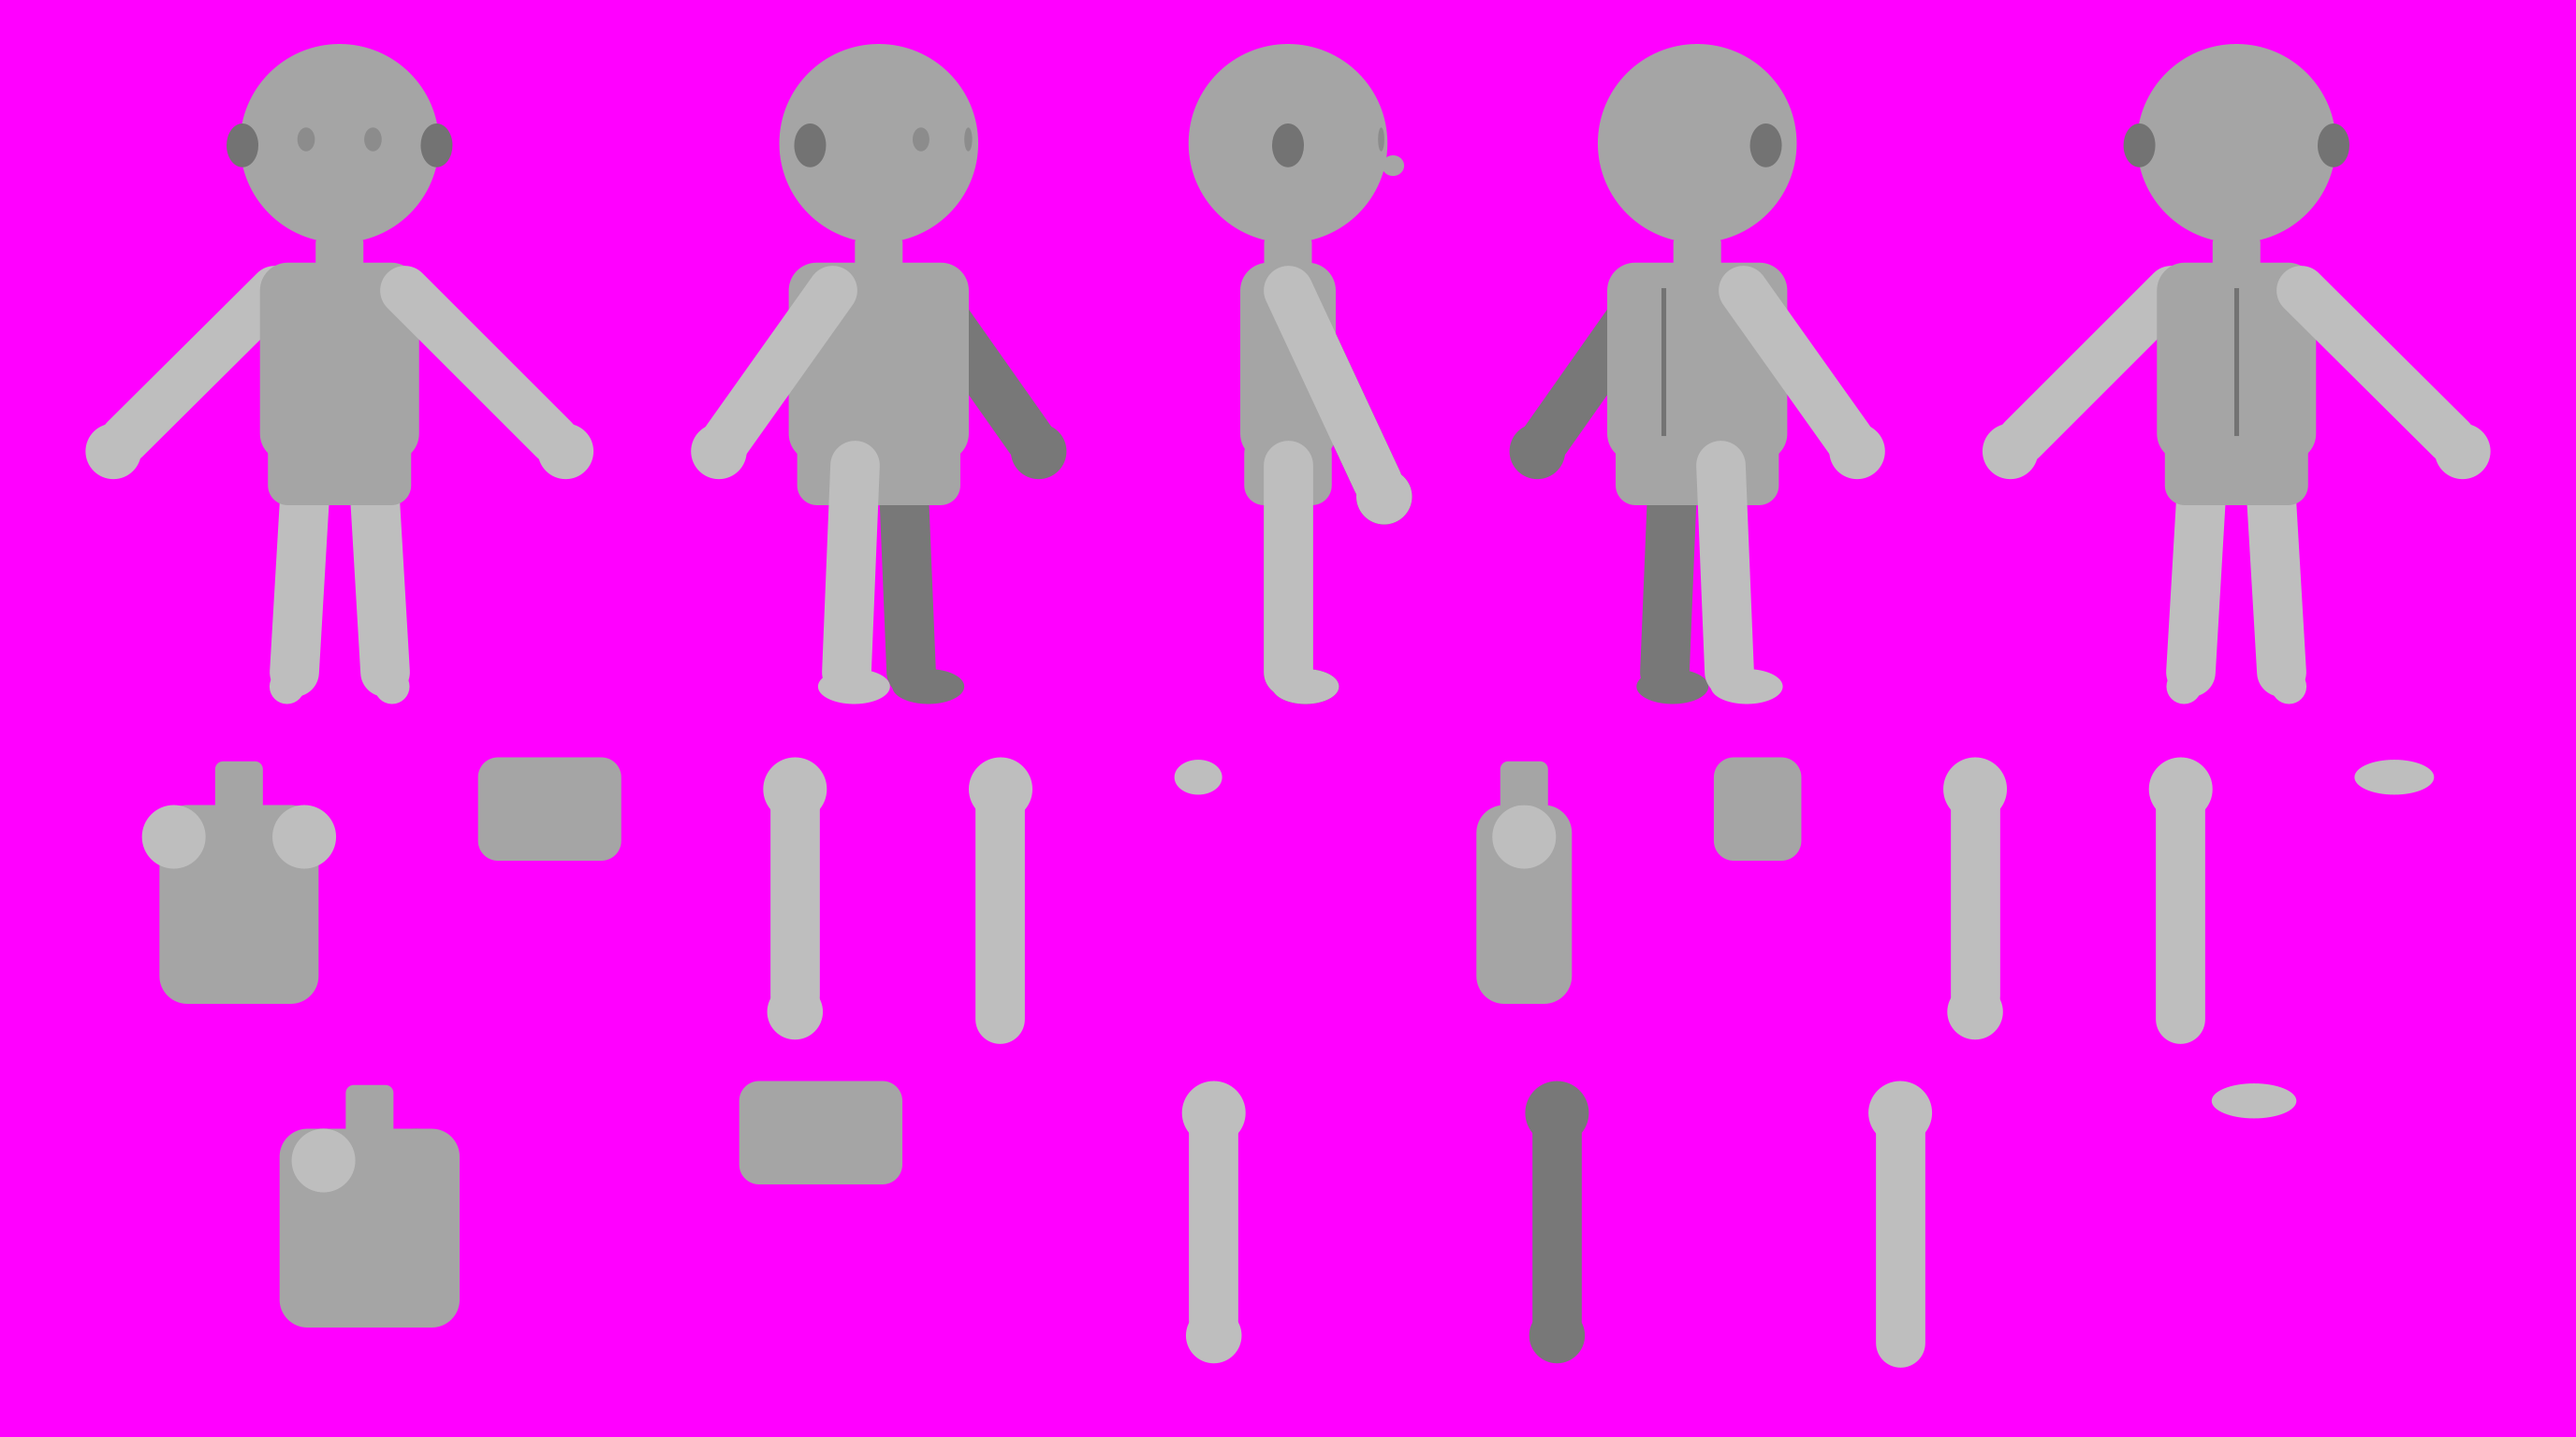
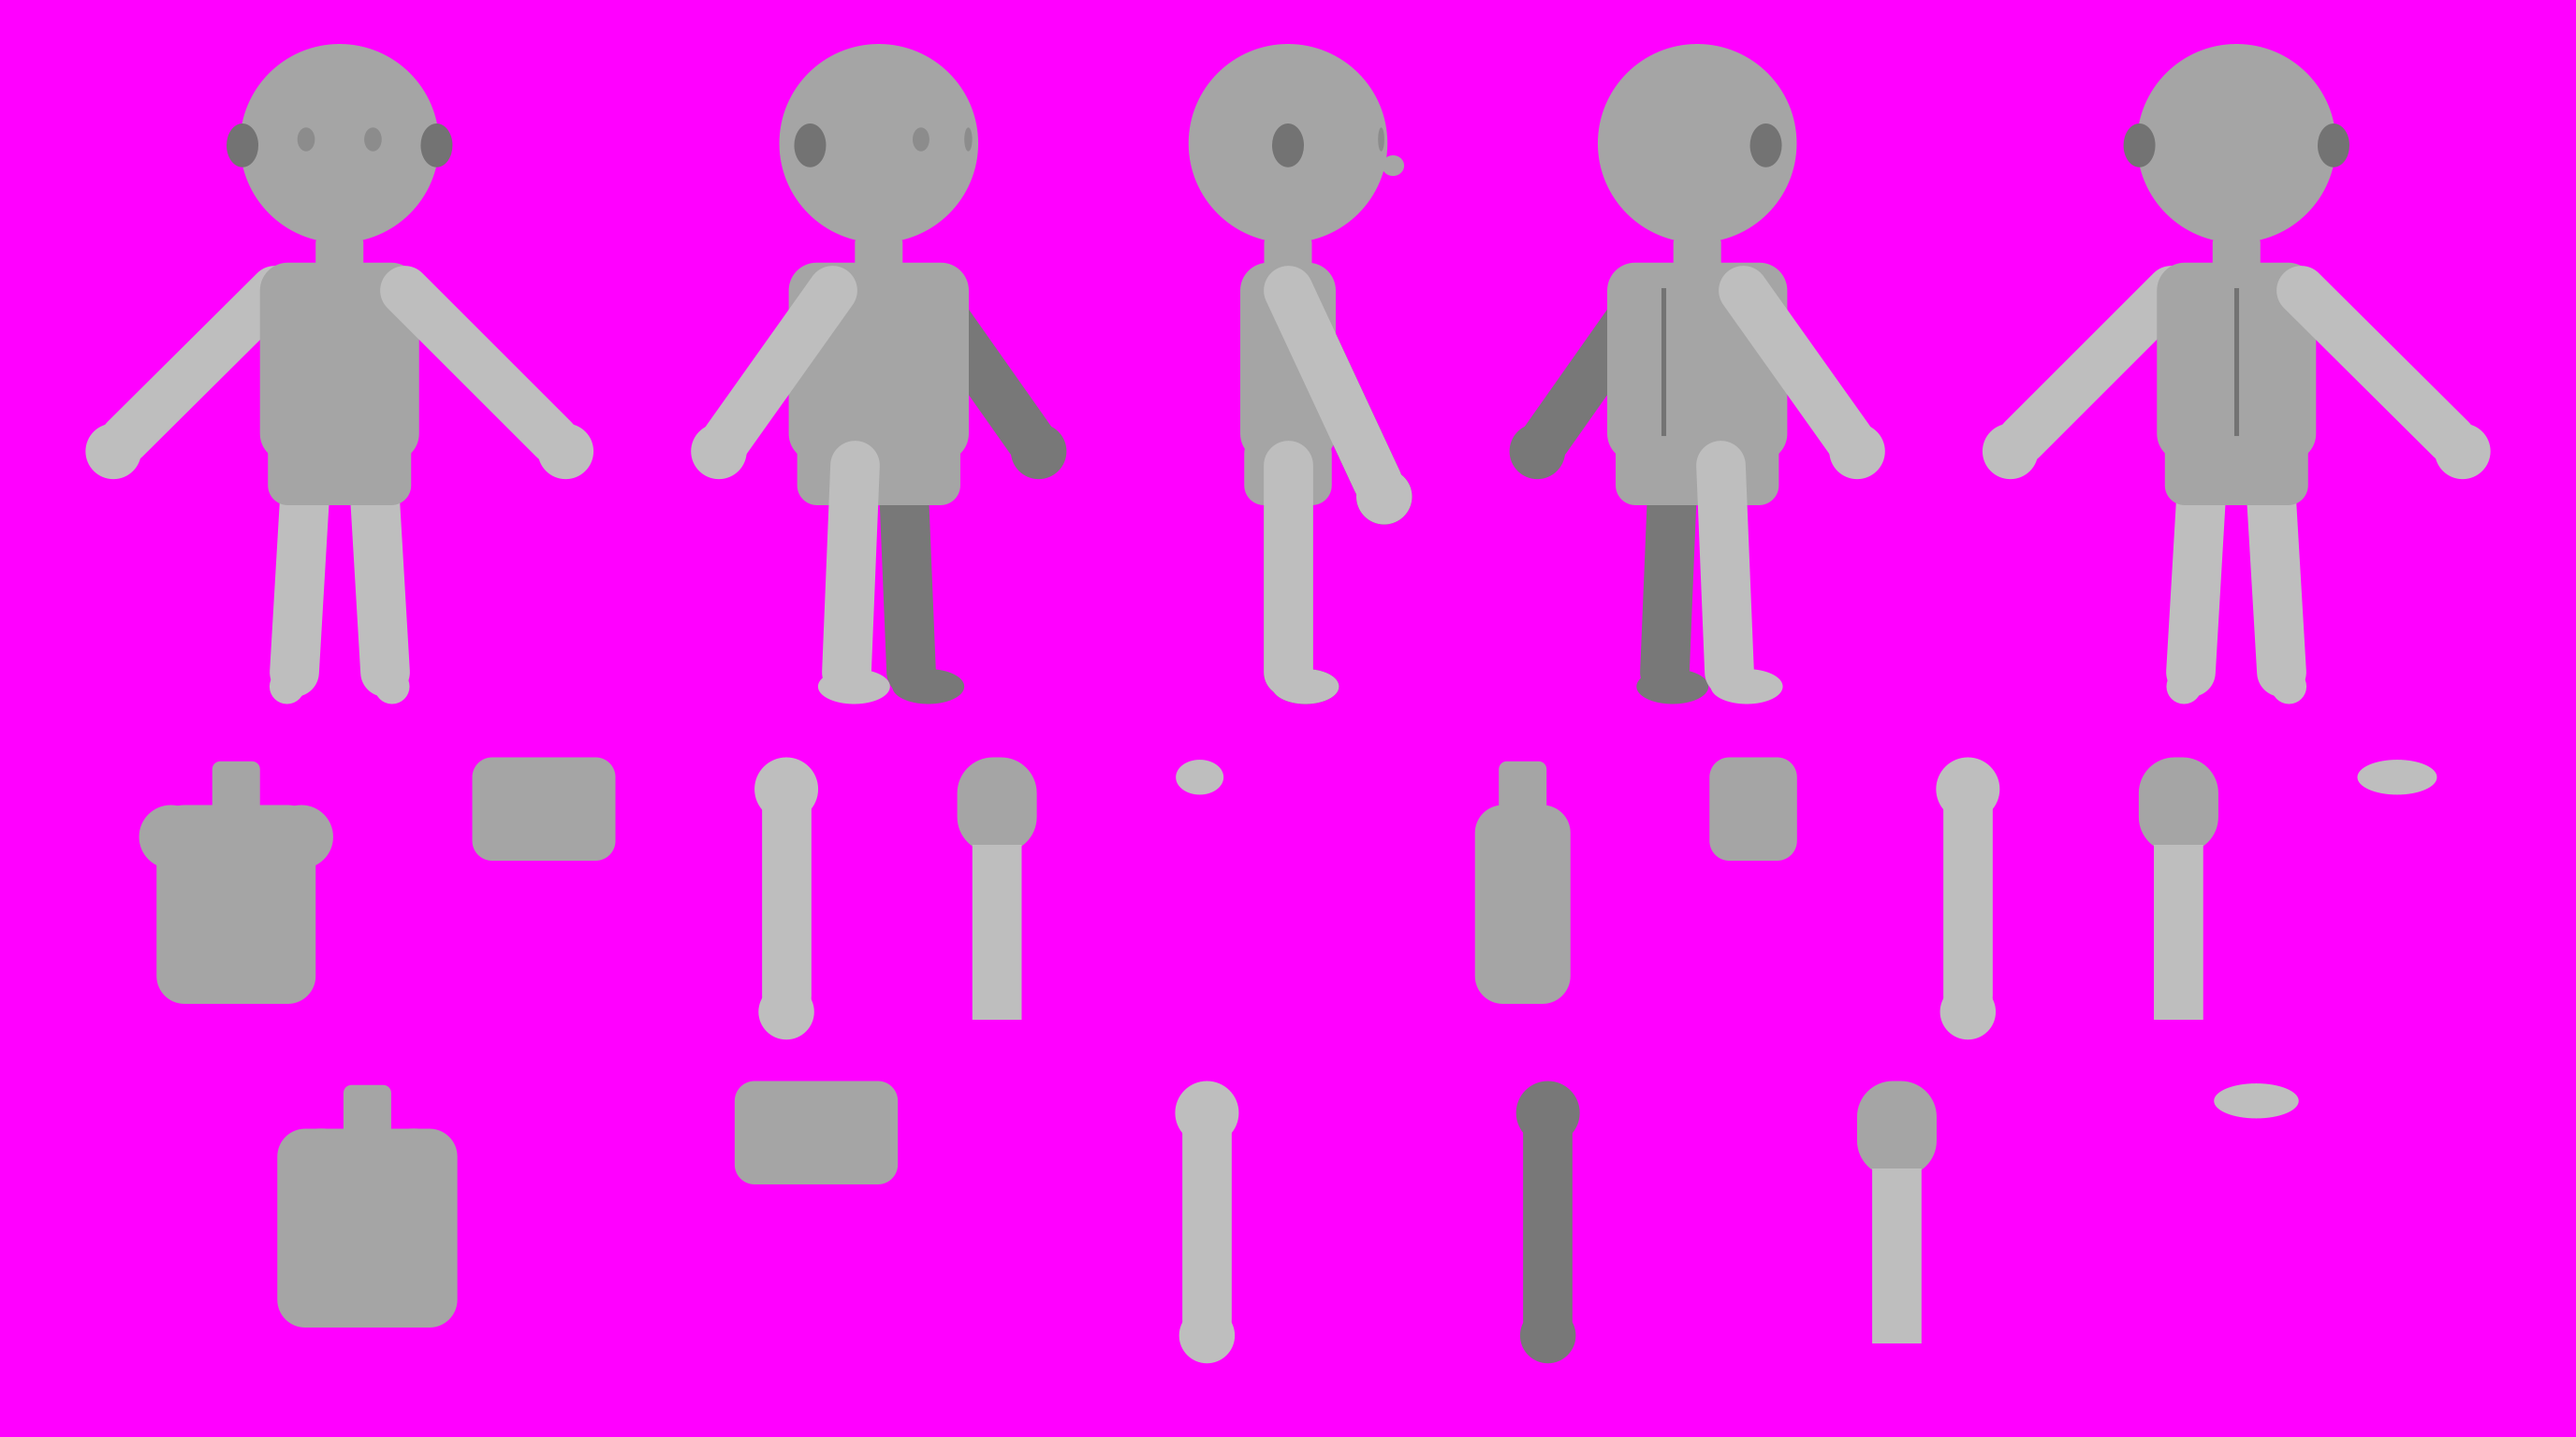
Bộ kit Kai, tờ thân: 2 lần Gemini ra hình (attempts/kit_body_v1, v2) và 3 lượt NO_IMAGE; hàng 5 góc, tay rời đầu tay áo tròn, chân rời có tất vẽ dư, thân trực diện không tay (v2) đạt; sửa tờ mẫu: thân một khối vai tròn không đĩa sáng (thành mảng da), ô chân là khối ống quần rộng khác ô tay (nhóm trự

diff --git a/tools/src/main/kotlin/com/example/storyrig/tools/MannequinSheet.kt b/tools/src/main/kotlin/com/example/storyrig/tools/MannequinSheet.kt
@@ -245,15 +245,11 @@ private fun partSet(view: String, yaw: Int): List<Slot> {
     val torso = Slot("${view}_torso", 2 * halfT, 310.0) { g, x, y, k ->
         val cx = x + halfT * k
         fun Y(u: Double) = y + (u - 325) * k
-        // Neck reaching up under the chin, torso, shoulder balls (the far one behind, the near one over it).
+        // Neck reaching up under the chin; the torso one grey shape with round shoulders (the shoulder balls drawn in
+        // the torso's own grey: a lighter disc there came back as a patch of skin).
         box(g, GREY, cx - 30 * k, Y(330.0), cx + 30 * k, Y(420.0), 20 * k)
-        val order = listOf(-1, 1).sortedBy { v.z(it * 82.0, 0.0) }
-        // Seen square on, both shoulders face the viewer alike (both over the torso); turned, the far one is behind it.
-        val square = abs(v.s) < 1e-6
-        if (!square) disc(g, DARK, cx + v.x(order[0] * 82.0, 0.0) * k, Y(425.0), 40 * k)
+        for (side in listOf(-1, 1)) disc(g, GREY, cx + v.x(side * 82.0, 0.0) * k, Y(425.0), 40 * k)
         box(g, GREY, cx - tw / 2 * k, Y(385.0), cx + tw / 2 * k, Y(635.0), 70 * k)
-        if (square) disc(g, LIGHT, cx + v.x(order[0] * 82.0, 0.0) * k, Y(425.0), 40 * k)
-        disc(g, LIGHT, cx + v.x(order[1] * 82.0, 0.0) * k, Y(425.0), 40 * k)
     }
     val pelvis = Slot("${view}_pelvis", pw, 130.0) { g, x, y, k ->
         // Reaching up 40 units under the shirt's hem (the waistband drawn in full).
@@ -265,11 +261,12 @@ private fun partSet(view: String, yaw: Int): List<Slot> {
         limb(g, c, cx, y + 40 * k, cx, y + 300 * k, 31 * k)
         disc(g, c, cx, y + 320 * k, 35 * k)
     }
-    val leg = Slot("${view}_leg", 80.0, 360.0) { g, x, y, k ->
-        val cx = x + 40 * k
-        disc(g, LIGHT, cx, y + 40 * k, 40 * k)
-        // Down past the ankle: the part inside the shoe.
-        limb(g, LIGHT, cx, y + 40 * k, cx, y + 329 * k, 31 * k)
+    val leg = Slot("${view}_leg", 100.0, 360.0) { g, x, y, k ->
+        val cx = x + 50 * k
+        // The leg of the shorts: a wide round-topped block (unlike an arm's narrow sleeve), then the leg down past the
+        // ankle (the part inside the shoe), cut flat.
+        box(g, GREY, cx - 50 * k, y, cx + 50 * k, y + 120 * k, 90 * k)
+        g.color = LIGHT; g.fill(java.awt.geom.Rectangle2D.Double(cx - 31 * k, y + 110 * k, 62 * k, 220 * k))
     }
     val fw = 44 * abs(v.c) + 84 * abs(v.s) + 16
     val shoe = Slot("${view}_shoe", fw, 50.0) { g, x, y, k ->

diff --git a/ART_PIPELINE.md b/ART_PIPELINE.md
@@ -188,7 +188,7 @@ Plan đầy đủ: bộ kit 2 tờ (mục 2), lắp rig từ bộ phận rời (
 | 0c | **Dừng sau mục vai (2026-10-18):** nách vẫn rách, chỉ bộ kit sửa được; các mục code còn lại làm sau khi Kai có bộ kit. Đã xong: quả cầu vai (selftest 15/15, lệch màu tư thế đứng tối đa 0,26 %, `motionCheck` đạt). Còn lại → thứ tự vẽ tay xa → gối theo hình nộm → cổ giày → tóc và dây buộc → váy Hana → mặt sau (quần đùi khi ngồi, đá chân) → cổ tay → nắp tô trơn (cổ, khuỷu, đùi, quai balo trên tay) → kính Bo | chưa |
 | 1 | 2 tờ mẫu (`rig_body.png`, `rig_face_hands.png`, kèm `.csv` ô) trong `MannequinSheet.kt` (`mannequin kit <dir>`). 2 prompt (`body_sheet.txt`, `face_hands_sheet.txt`) nói rõ phần phải vẽ dư, 12 miệng, bàn tay đếm số | xong 2026-10-18, **chờ người dùng duyệt**. Tờ thân: hàng A 5 góc, hàng B bộ phận rời trực diện và nghiêng, hàng C bộ phận rời 3/4 (vừa 2 tờ, không cần tờ 3). Cỡ ở 4K: người toàn thân 1411 px, miệng 146–246 px, mắt 180 px, bàn tay 368×448 px, đầu không tóc 494 px (mặt và tay vẽ gấp 2,4 lần cỡ thân, `splitsheet` thu về). Prompt của Kai: `assets/kai/prompts/5_body_sheet.txt`, `6_face_hands_sheet.txt` |
 | 2 | `splitsheet` và `sheetcheck` (10 mục ở mục 3), thử trên `turnaround_v1.jpg` | chưa |
-| 3 | Gemini cho **Kai**: 2 lượt, 4K, **người dùng duyệt riêng**. Chạy `sheetcheck`, báo bằng lời thường kèm ảnh khoanh lỗi | chờ duyệt |
+| 3 | Gemini cho **Kai**: 2 lượt, 4K, **người dùng duyệt riêng**. Chạy `sheetcheck`, báo bằng lời thường kèm ảnh khoanh lỗi | đang làm. 2026-10-18 tờ thân 2 lần ra hình (`attempts/kit_body_v1.jpg`, `v2`) cộng 3 lượt `NO_IMAGE` (model hay từ chối ngẫu nhiên với prompt dài kèm 3 ảnh; thêm câu đầu "Generate one image" và thử lại thì ra). Hàng 5 góc đẹp và đồng nhất; tay rời có đầu tay áo tròn; chân rời có đầu ống quần tròn và tất vẽ dư; v2 thân trực diện đúng dáng không tay (vai tròn, nách, hông áo đủ). Lỗi do tờ mẫu: đĩa vai sáng trên thân thành mảng da (đã bỏ, thân một khối xám vai tròn); ô chân giống ô tay nên nhóm trực diện ra 2 tay, thiếu chân và giày (ô chân giờ là khối ống quần rộng). Quần rời vẫn có 2 ống (tool cắt bỏ dưới đáy quần). Chân 3/4 vẫn dính giày. **Tiếp: gọi tờ thân v3 với tờ mẫu mới (free tier, người dùng duyệt), rồi tờ mặt và tay** |
 | 4 | `cutparts` cho Kai: lắp rig trực diện và nghiêng từ bộ phận rời (mục 4). Engine đọc thêm: tròng mắt tách (đảo mắt), 12 miệng, bàn tay hoán đổi, tóc tách lớp, góc SIDE 90 và Q3_BACK 135, clip đi ở góc nghiêng | chưa |
 | 5 | Kai: góc 3/4, 3/4 sau, sau lưng cắt từ hàng A (dự phòng). Đưa đủ các góc của Kai vào app | chưa |
 | 6 | **Người dùng xem Kai trong app và xác nhận ổn hết.** Chưa xác nhận thì không gọi Gemini cho nhân vật khác | chưa |
@@ -196,7 +196,7 @@ Plan đầy đủ: bộ kit 2 tờ (mục 2), lắp rig từ bộ phận rời (
 
 Mỗi bước: soi `tools/joint_sheet.sh` (cả 11 bộ cắt), selftest, `motionCheck`, rồi mở lại app desktop cho người dùng xem.
 
-Lượt Gemini ngày 2026-10-18: 12/20 paid (11 hình trực diện, 1 tờ thử 5 góc). Từ 2026-10-19 dùng `STORYRIG_TIER=free`.
+Lượt Gemini ngày 2026-10-18: 12 hình paid buổi sáng (11 hình trực diện, 1 tờ thử 5 góc), tối thêm 2 tờ thân bộ kit ra hình và 3 lượt `NO_IMAGE` (chạy `STORYRIG_TIER=free`, người dùng cho nâng trần có chủ ý). Bộ đếm của script ghi 44 (tính cả lượt lỗi). Từ 2026-10-19 dùng `STORYRIG_TIER=free`.
 
 ## 8. Rà soát khớp (2026-10-18)
 

diff --git a/NEXT_SESSION.md b/NEXT_SESSION.md
@@ -15,5 +15,6 @@
    - chạy selftest (`./gradlew :tools:run --args="selftest <dir>"`) và `./gradlew :desktopApp:motionCheck`;
    - commit bằng tiếng Việt, cập nhật mục 7 của `ART_PIPELINE.md`;
    - dừng app cũ và mở lại app desktop cho người dùng xem.
-4. **Lượt Gemini:** ngày 2026-10-18 đã dùng 12/20 lượt paid. Từ 2026-10-19 dùng `STORYRIG_TIER=free` (chỉ là chờ giữa các lượt, tiền vẫn tính).
-5. Trả lời người dùng bằng tiếng Việt.
+4. **Lượt Gemini:** ngày 2026-10-18 đã có 14 hình ra (12 sáng + 2 tờ thân bộ kit tối) và vài lượt lỗi; bộ đếm 44. Từ 2026-10-19 dùng `STORYRIG_TIER=free` (chỉ là chờ giữa các lượt, tiền vẫn tính). Lệnh: `--attach` lặp lại cho mỗi tệp; `NO_IMAGE` thì hỏi người dùng rồi thử lại tối đa 2 lần.
+5. **Đang ở Bước 3 (Kai):** gọi tờ thân v3 với tờ mẫu mới (`assets/templates/rig_body.png`), xem kết quả ở ART_PIPELINE mục 7; xong rồi tờ mặt và tay.
+6. Trả lời người dùng bằng tiếng Việt.
